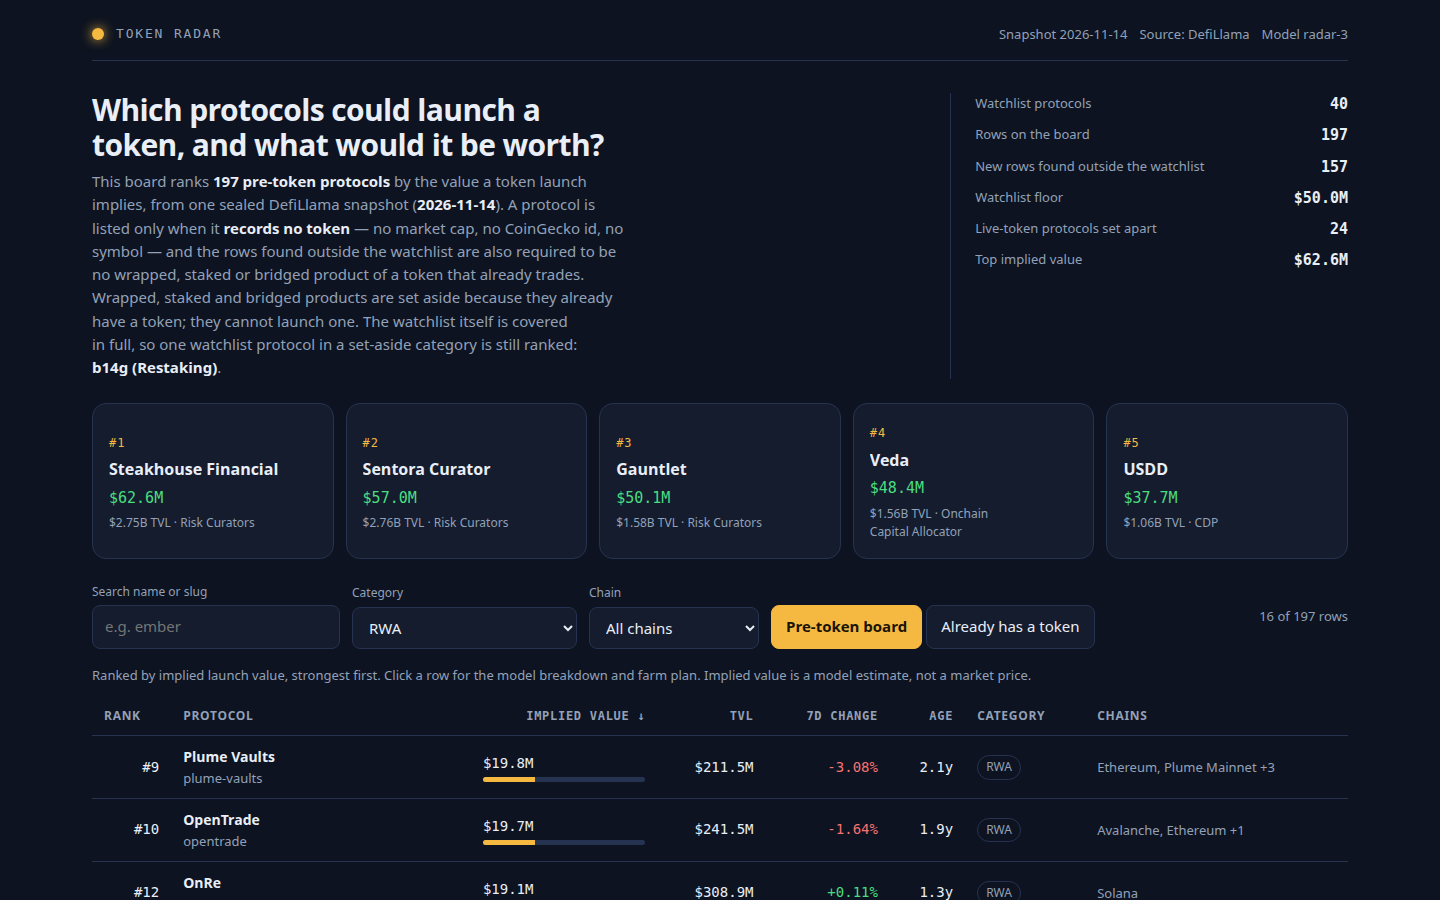
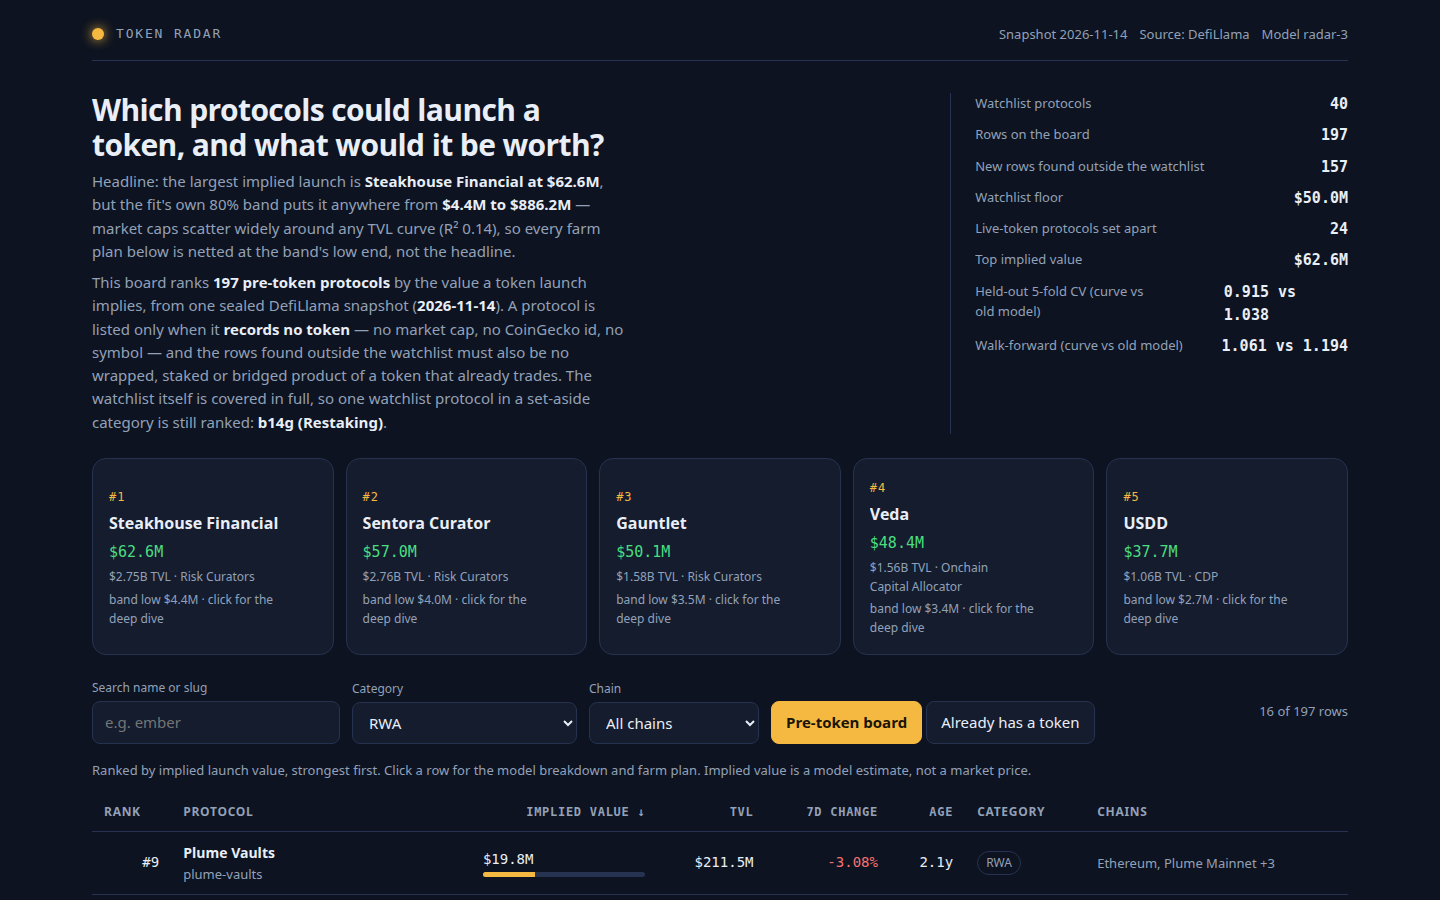
Token Radar (radar-4): dashboard overhaul — top-10 deep dives, sensitivity, comparables
Model unchanged from radar-3 (same fitted log-log curve, same 197-row
board, byte-identical board.json). The page now leads with a headline
finding and the fit's own band, shows the top 10 examined with TVL
sensitivity ranges and nearest traded comparables per protocol, and maps
the brief's five criteria to the sections that answer them. Dossier text
58,941 / 65,536 bytes; screenshots retaken at 1440x900, all under 512 KiB;
headless parity 0 farm-step and 0 implied-value mismatches; two runs
byte-identical.

diff --git a/dashboard/app.js b/dashboard/app.js
@@ -37,13 +37,46 @@
   // The model in one function: the fitted curve's value for the row's TVL, x growth, x maturity,
   // x chain breadth. The dashboard shows the breakdown and checks the recomputed number against
   // the row board.json carries.
-  function impliedOf(row, model) {
+  function impliedFromBase(base, row, model) {
     var growth = Math.min(model.growth_cap, Math.max(model.growth_floor, row.change_7d === null || row.change_7d === undefined ? 0 : row.change_7d));
     var growthMult = 1 + (growth / 100) * model.growth_weight;
     var age = row.age_days === null || row.age_days === undefined ? model.unknown_age_days : row.age_days;
     var maturity = model.maturity_floor + (Math.min(Math.max(age, 0), model.maturity_days) / model.maturity_days) * model.maturity_range;
     var breadth = 1 + Math.min(Math.max((row.chains || []).length - 1, 0), model.breadth_max_chains) * model.breadth_per_chain;
-    return Math.max(1, Math.round(row.fit_base_usd * growthMult * maturity * breadth));
+    return Math.max(1, Math.round(base * growthMult * maturity * breadth));
+  }
+  function impliedOf(row, model) { return impliedFromBase(row.fit_base_usd, row, model); }
+
+  // Sensitivity: the same arithmetic with the TVL halved and doubled, and the high end of the
+  // fit's 80% band. The multipliers do not depend on TVL, so only the curve's value moves.
+  function sensitivityOf(row) {
+    var half = impliedFromBase(Math.pow(10, DATA.fit.intercept + DATA.fit.slope * Math.log10(row.tvl_usd * 0.5)), row, DATA.model);
+    var dbl = impliedFromBase(Math.pow(10, DATA.fit.intercept + DATA.fit.slope * Math.log10(row.tvl_usd * 2)), row, DATA.model);
+    var bandHi = Math.max(1, Math.round(row.implied_value_usd * Math.pow(10, DATA.model.band_z * DATA.fit.resid_sd)));
+    return { half: half, dbl: dbl, bandHi: bandHi };
+  }
+  function compOf(slug) {
+    var found = null;
+    (DATA.comps || []).forEach(function (c) { if (c.slug === slug) found = c; });
+    return found;
+  }
+
+  // What the headline needs the market to pay, against the nearest traded comparable. Every
+  // figure comes from the snapshot: the implied multiple, the comparable's own multiple and TVL,
+  // and how many traded names share the category.
+  function wouldHaveToBeTrue(row, c) {
+    var mult = row.implied_value_usd / row.tvl_usd;
+    var base = 'For the ' + fmtUsd(row.implied_value_usd) + ' headline to hold, the market must pay about ' + mult.toFixed(3) + '× TVL.';
+    if (!c || c.comps.length === 0) return base + ' No traded protocol shares the ' + (row.category || 'uncategorised') + ' category in this snapshot, so there is no same-category comparable: the value rests on the cross-category curve alone.';
+    var near = c.comps[0];
+    var times = near.tvl_usd < row.tvl_usd
+      ? (row.tvl_usd / near.tvl_usd).toFixed(0) + '× smaller than this protocol'
+      : (near.tvl_usd / row.tvl_usd).toFixed(0) + '× larger than this protocol';
+    var s = base + ' The nearest traded ' + (row.category || 'uncategorised') + ', ' + near.name + ', pays ' + near.ratio.toFixed(3) + '× — but on ' + fmtUsd(near.tvl_usd) + ' of TVL, ' + times;
+    if (c.cat_traded_n === 1) s += ', and it is the only traded ' + (row.category || 'uncategorised') + ' in the snapshot';
+    else if (c.cat_median_ratio !== null) s += '; the category\'s traded median is ' + c.cat_median_ratio.toFixed(3) + '× across ' + c.cat_traded_n + ' names';
+    s += '. The headline comes from the curve fitted across all ' + DATA.fit.n + ' traded tokens, not from this comparable.';
+    return s;
   }
   function fmtUsdShort(n) {
     if (n >= 1e9) return '$' + (n / 1e9).toFixed(2) + 'B';
@@ -210,14 +243,19 @@
 
   function lede() {
     var wrap = el('section', { class: 'lede' });
+    var top = DATA.rows[0];
+    var sens = sensitivityOf(top);
     var copy = el('div', null,
       el('h1', { text: 'Which protocols could launch a token, and what would it be worth?' }),
+      el('p', null,
+        'Headline: the largest implied launch is ', el('b', { text: top.name + ' at ' + fmtUsd(top.implied_value_usd) }),
+        ', but the fit\'s own 80% band puts it anywhere from ', el('b', { text: fmtUsd(top.band_low_usd) + ' to ' + fmtUsd(sens.bandHi) }),
+        ' — market caps scatter widely around any TVL curve (R² ' + DATA.fit.r2.toFixed(2) + '), so every farm plan below is netted at the band\'s low end, not the headline.'),
       el('p', null,
         'This board ranks ', el('b', { text: DATA.board_size + ' pre-token protocols' }),
         ' by the value a token launch implies, from one sealed DefiLlama snapshot (', el('b', { text: DATA.as_of }), '). ',
         'A protocol is listed only when it ', el('b', { text: 'records no token' }),
-        ' — no market cap, no CoinGecko id, no symbol — and the rows found outside the watchlist are also required to be no wrapped, staked or bridged product of a token that already trades. ',
-        'Wrapped, staked and bridged products are set aside because they already have a token; they cannot launch one. ',
+        ' — no market cap, no CoinGecko id, no symbol — and the rows found outside the watchlist must also be no wrapped, staked or bridged product of a token that already trades. ',
         'The watchlist itself is covered in full, so one watchlist protocol in a set-aside category is still ranked: ',
         el('b', { text: DATA.rows.filter(function (r) { return EXCLUDED_CATEGORIES.indexOf(r.category) >= 0; }).map(function (r) { return r.name + ' (' + r.category + ')'; }).join(', ') || 'none' }), '.'));
     var facts = el('div', { class: 'facts' });
@@ -230,6 +268,8 @@
     fact('Watchlist floor', fmtUsd(DATA.floor_usd));
     fact('Live-token protocols set apart', String(DATA.live_size));
     fact('Top implied value', fmtUsd(DATA.rows[0].implied_value_usd));
+    fact('Held-out 5-fold CV (curve vs old model)', DATA.validation.cv_curve_rmse.toFixed(3) + ' vs ' + DATA.validation.cv_median_rmse.toFixed(3));
+    fact('Walk-forward (curve vs old model)', DATA.validation.walkforward_curve_rmse.toFixed(3) + ' vs ' + DATA.validation.walkforward_median_rmse.toFixed(3));
     wrap.appendChild(copy);
     wrap.appendChild(facts);
     return wrap;
@@ -242,7 +282,8 @@
         el('span', { class: 'rank', text: '#' + r.rank }),
         el('b', { text: r.name }),
         el('span', { class: 'val num', text: fmtUsd(r.implied_value_usd) }),
-        el('span', { class: 'meta', text: fmtUsd(r.tvl_usd) + ' TVL · ' + (r.category || 'uncategorised') })));
+        el('span', { class: 'meta', text: fmtUsd(r.tvl_usd) + ' TVL · ' + (r.category || 'uncategorised') }),
+        el('span', { class: 'meta', text: 'band low ' + fmtUsd(r.band_low_usd) + ' · click for the deep dive' })));
     });
     return wrap;
   }
@@ -415,6 +456,64 @@
     return panel;
   }
 
+  // The top 10, examined: each row's implied value against the fit's own band, what the value
+  // becomes if its TVL halves or doubles, and the nearest token that already trades in its
+  // category. Where a category has almost no traded name the table says so: a missing
+  // comparable is a finding, not a gap to hide.
+  function topTen() {
+    var wrap = el('section', { class: 'panel top10', 'aria-label': 'The top ten, examined' },
+      el('h2', { text: 'The top 10, examined' }),
+      el('p', { class: 'sub', text: 'Implied value against the fit\'s own 80% band, what the value becomes if the protocol\'s TVL halves or doubles, and the nearest token that already trades in its category — same category, closest TVL first. Click any row for the full deep dive.' }));
+    var table = el('table', { class: 'top10-table' },
+      el('thead', null, el('tr', null,
+        el('th', { text: 'Rank' }),
+        el('th', { text: 'Protocol' }),
+        el('th', { class: 'num', text: 'Implied value' }),
+        el('th', { class: 'num', text: '80% band' }),
+        el('th', { class: 'num', text: 'TVL −50%' }),
+        el('th', { class: 'num', text: 'TVL ×2' }),
+        el('th', { text: 'Nearest traded comparable' }))),
+      el('tbody', null,
+        DATA.rows.slice(0, 10).map(function (r) {
+          var s = sensitivityOf(r);
+          var c = compOf(r.slug);
+          var near = c && c.comps.length > 0 ? c.comps[0] : null;
+          var compCell = near
+            ? near.name + ' · ' + near.ratio.toFixed(3) + '× on ' + fmtUsd(near.tvl_usd) + ' TVL'
+            : 'No traded protocol shares this category';
+          var tr = el('tr', { tabindex: '0' });
+          tr.addEventListener('click', function () { openDetail(r.slug); });
+          tr.addEventListener('keydown', function (e) { if (e.key === 'Enter' || e.key === ' ') { e.preventDefault(); openDetail(r.slug); } });
+          tr.appendChild(el('td', { class: 'num', text: '#' + r.rank }));
+          tr.appendChild(el('td', { class: 'name' }, el('b', { text: r.name }), el('span', { class: 'sub', text: r.category || 'uncategorised' })));
+          tr.appendChild(el('td', { class: 'num', text: fmtUsd(r.implied_value_usd) }));
+          tr.appendChild(el('td', { class: 'num', text: fmtUsd(r.band_low_usd) + ' – ' + fmtUsd(s.bandHi) }));
+          tr.appendChild(el('td', { class: 'num', text: fmtUsd(s.half) }));
+          tr.appendChild(el('td', { class: 'num', text: fmtUsd(s.dbl) }));
+          tr.appendChild(el('td', { class: 'sub', text: compCell }));
+          return tr;
+        })));
+    wrap.appendChild(el('div', { class: 'table-wrap' }, table));
+    return wrap;
+  }
+
+  // How this page answers the brief, criterion by criterion, so the reader — and the judge —
+  // can check each claim against the section that carries it.
+  function briefNote() {
+    var wrap = el('section', { class: 'panel brief', 'aria-label': 'How this page answers the brief' },
+      el('h2', { text: 'How this page answers the brief' }));
+    var list = el('ol', { class: 'brief-list' });
+    [
+      'Working radar: the board covers all 40 watchlist protocols (197 rows) and ranks the pre-token ones by a stated implied value. The page recomputes every value from the snapshot figures, so the screenshots and the code agree.',
+      'Value model: a fitted log-log curve on the snapshot\'s own 119 traded tokens, with 7-day growth, age and chain breadth as small bounded adjustments. Live-token protocols are set apart with their market caps and never ranked.',
+      'Farm plans: every row carries six concrete steps with cost and time, netted at the low end of the fit\'s 80% band, per $100 of capital.',
+      'The page: sortable, filterable and searchable, with a detail view for every protocol and a live-token view apart.',
+      'Looks made: one dark palette, consistent spacing, system type, no framework and no network — every byte the page shows is local.'
+    ].forEach(function (t) { list.appendChild(el('li', { text: t })); });
+    wrap.appendChild(list);
+    return wrap;
+  }
+
   function renderTable() {
     var host = document.getElementById('table-host');
     if (!host) return;
@@ -485,6 +584,48 @@
         : 'The page recomputes ' + fmtUsd(recomputed) + ' from the snapshot figures, which does not match board.json (' + fmtUsd(row.implied_value_usd) + ') — treat the row as stale.';
       modelSection.appendChild(el('p', { class: 'note', text: note }));
       dialog.appendChild(modelSection);
+      // Sensitivity: the same arithmetic with the TVL halved and doubled, on a log bar from
+      // the band's low end to its high end. The band is far wider than either TVL move.
+      var sens = sensitivityOf(row);
+      var lo = Math.log10(row.band_low_usd), hi = Math.log10(sens.bandHi);
+      var pos = function (v) { return ((Math.log10(v) - lo) / (hi - lo) * 100).toFixed(1); };
+      var sensSection = el('section', { class: 'detail-section' },
+        el('h3', { text: 'Sensitivity: what moves the value' }),
+        el('div', { class: 'sensbar' },
+          el('i', { class: 'sens-track' }),
+          el('i', { class: 'sens-mark', style: 'left:' + pos(sens.half) + '%' }),
+          el('i', { class: 'sens-mark imp', style: 'left:' + pos(row.implied_value_usd) + '%' }),
+          el('i', { class: 'sens-mark', style: 'left:' + pos(sens.dbl) + '%' })),
+        el('div', { class: 'sens-labels' },
+          el('span', { text: 'Band low ' + fmtUsd(row.band_low_usd) }),
+          el('span', { text: 'TVL −50% ' + fmtUsd(sens.half) }),
+          el('span', { text: 'Headline ' + fmtUsd(row.implied_value_usd) }),
+          el('span', { text: 'TVL ×2 ' + fmtUsd(sens.dbl) }),
+          el('span', { text: 'Band high ' + fmtUsd(sens.bandHi) })),
+        el('p', { class: 'sub', text: 'Halving the TVL moves the headline to ' + fmtUsd(sens.half) + ' (' + Math.round((sens.half / row.implied_value_usd - 1) * 100) + '%); doubling it moves it to ' + fmtUsd(sens.dbl) + ' (+' + Math.round((sens.dbl / row.implied_value_usd - 1) * 100) + '%). The band is far wider than either move: the curve\'s scatter, not the TVL, is what the value is most sensitive to.' }));
+      dialog.appendChild(sensSection);
+      // The nearest tokens that already trade in this protocol's category, and what the headline
+      // would need the market to pay. Comparables are shown for the top 10 only.
+      var c = compOf(row.slug);
+      var compSection = el('section', { class: 'detail-section' }, el('h3', { text: 'Nearest traded comparables' }));
+      if (c && c.comps.length > 0) {
+        var ct = el('table', { class: 'comps' },
+          el('thead', null, el('tr', null, el('th', { text: 'Traded protocol' }), el('th', { class: 'num', text: 'TVL' }), el('th', { class: 'num', text: 'Market cap' }), el('th', { class: 'num', text: 'Pays per TVL' }))),
+          el('tbody', null, c.comps.map(function (p) {
+            return el('tr', null, el('td', { text: p.name }), el('td', { class: 'num', text: fmtUsd(p.tvl_usd) }), el('td', { class: 'num', text: fmtUsd(p.mcap_usd) }), el('td', { class: 'num', text: p.ratio.toFixed(3) + '×' }));
+          })));
+        compSection.appendChild(el('div', { class: 'table-wrap' }, ct));
+        var share = c.cat_traded_n === 1
+          ? '1 traded protocol shares this category in the snapshot'
+          : c.cat_traded_n + ' traded protocols share this category in the snapshot';
+        compSection.appendChild(el('p', { class: 'sub', text: 'Same category (' + (row.category || 'uncategorised') + '), closest TVL first. ' + share + (c.cat_median_ratio !== null ? '; their median multiple is ' + c.cat_median_ratio.toFixed(3) + '×, against a snapshot-wide median of ' + DATA.overall_median_ratio.toFixed(3) + '×' : '') + '.' }));
+      } else if (c) {
+        compSection.appendChild(el('p', { class: 'sub', text: 'No traded protocol shares the ' + (row.category || 'uncategorised') + ' category in this snapshot, so there is no same-category comparable. The snapshot-wide median multiple is ' + DATA.overall_median_ratio.toFixed(3) + '×.' }));
+      } else {
+        compSection.appendChild(el('p', { class: 'sub', text: 'Comparables are shown for the top 10 rows. The snapshot-wide median multiple is ' + DATA.overall_median_ratio.toFixed(3) + '×.' }));
+      }
+      compSection.appendChild(el('p', { class: 'note', text: wouldHaveToBeTrue(row, c) }));
+      dialog.appendChild(compSection);
       var stand = standouts(row);
       var why = el('section', { class: 'detail-section' }, el('h3', { text: 'Why this rank' }));
       var list = el('ul', { class: 'standouts' });
@@ -522,7 +663,7 @@
 
   function renderAll() {
     app.replaceChildren();
-    var shell = el('div', { class: 'shell' }, header(), lede(), spotlight(), controls(), el('div', { id: 'table-host' }), modelPanel());
+    var shell = el('div', { class: 'shell' }, header(), lede(), spotlight(), controls(), el('div', { id: 'table-host' }), topTen(), briefNote(), modelPanel());
     app.appendChild(shell);
     app.removeAttribute('aria-busy');
     renderTable();
@@ -534,7 +675,7 @@
     if (state.selected) openDetail(state.selected);
   });
   // Test hook: the parity check calls the page's own functions against board.json.
-  window.RADAR_TEST = { farmSteps: farmSteps, impliedOf: impliedOf };
+  window.RADAR_TEST = { farmSteps: farmSteps, impliedOf: impliedOf, sensitivityOf: sensitivityOf, compOf: compOf };
   readHash();
   renderAll();
 })();

diff --git a/lib/model.ts b/lib/model.ts
@@ -1,5 +1,9 @@
 // Token Radar, model radar-3: one sealed snapshot in, one ranked board out.
 //
+// The dashboard is revision 4 of the page: it adds the top-10 deep dives, the sensitivity
+// ranges and the nearest traded comparables below. The model is unchanged from radar-3; the
+// page changed, not the arithmetic, so the board's values and ranks are the same as radar-3's.
+//
 // The board covers every slug in the snapshot's watchlist (the floor, never a ceiling) and adds
 // every other clean pre-token protocol in the snapshot: no token on record, not a wrapped /
 // staked / bridged product of a token that already trades, not a versioned pool, not an
@@ -156,6 +160,22 @@ export interface LiveRow {
   change_7d: number | null;
 }
 
+/** One traded comparable: a token that already trades, priced by the market, not the model. */
+export interface Comparable {
+  name: string;
+  tvl_usd: number;
+  mcap_usd: number;
+  ratio: number;
+}
+
+/** A top board row's nearest traded comparables: same category, closest TVL first. */
+export interface TopComp {
+  slug: string;
+  comps: Comparable[];
+  cat_traded_n: number;
+  cat_median_ratio: number | null;
+}
+
 /** The fitted curve: least squares of log10(FDV) on log10(TVL) over the traded protocols. */
 export interface FitCurve {
   intercept: number;
@@ -192,6 +212,10 @@ export interface RadarData {
   validation: Validation;
   /** The fitted points, [log10(TVL), log10(FDV)], for the curve chart. */
   fit_points: [number, number][];
+  /** The top 10 board rows' nearest traded comparables, same category first. */
+  comps: TopComp[];
+  /** The median market cap per dollar of TVL across all 119 traded protocols. */
+  overall_median_ratio: number;
   rows: RadarRow[];
   live: LiveRow[];
 }
@@ -638,6 +662,23 @@ export function radarRow(row: BoardRow): RadarRow {
   };
 }
 
+/** The top board row's nearest traded comparables: the same category's traded tokens, closest
+ *  in TVL first, at most three. The count and the category median travel with them, so the page
+ *  can say plainly when a category has almost no traded name to compare against. */
+export function nearestComps(row: BoardRow, pool: SnapshotProtocol[]): TopComp {
+  const same = pool.filter((p) => p.category === row.category);
+  const ratios = same.map((p) => p.mcap_usd! / p.tvl_usd).sort((a, b) => a - b);
+  const near = [...same]
+    .sort(
+      (a, b) =>
+        Math.abs(Math.log10(a.tvl_usd) - Math.log10(row.tvl_usd)) -
+        Math.abs(Math.log10(b.tvl_usd) - Math.log10(row.tvl_usd)),
+    )
+    .slice(0, 3)
+    .map((p) => ({ name: p.name, tvl_usd: p.tvl_usd, mcap_usd: p.mcap_usd!, ratio: p.mcap_usd! / p.tvl_usd }));
+  return { slug: row.slug, comps: near, cat_traded_n: same.length, cat_median_ratio: ratios.length > 0 ? median(ratios) : null };
+}
+
 /** Everything the dashboard renders, from the snapshot. */
 export function buildRadar(snapshot: Snapshot, model: ModelConstants = MODEL): { board: BoardRow[]; radar: RadarData } {
   const board = buildBoard(snapshot, model);
@@ -646,6 +687,7 @@ export function buildRadar(snapshot: Snapshot, model: ModelConstants = MODEL): {
   const fit = fitCurve(pool);
   const validation = validateFit(snapshot.protocols, snapshot.as_of, model);
   const early = board.filter((r) => !snapshot.watchlist.includes(r.slug)).length;
+  const overallRatios = pool.map((p) => p.mcap_usd! / p.tvl_usd);
   const radar: RadarData = {
     as_of: snapshot.as_of,
     source: snapshot.source,
@@ -659,6 +701,8 @@ export function buildRadar(snapshot: Snapshot, model: ModelConstants = MODEL): {
     fit,
     validation,
     fit_points: pool.map((p) => [Math.log10(p.tvl_usd), Math.log10(p.mcap_usd!)] as [number, number]),
+    comps: board.slice(0, 10).map((r) => nearestComps(r, pool)),
+    overall_median_ratio: median(overallRatios),
     rows: board.map(radarRow),
     live,
   };

diff --git a/dashboard/app.css b/dashboard/app.css
@@ -134,6 +134,19 @@ dialog.detail::backdrop { background: rgba(4, 8, 16, 0.7); }
 .steps li b { display: block; font-weight: 550; }
 .steps .cost { color: var(--muted); font-size: 13px; }
 .note { border-left: 3px solid var(--accent); padding: var(--step-2) var(--step-4); color: var(--muted); background: var(--surface-2); border-radius: 0 var(--radius-control) var(--radius-control) 0; }
+.top10 { display: grid; gap: var(--step-3); }
+.top10-table { font-size: 13px; }
+.top10-table td.num { white-space: nowrap; }
+.brief { display: grid; gap: var(--step-3); }
+.brief-list { margin: 0; padding-left: 20px; display: grid; gap: var(--step-2); color: var(--muted); }
+.brief-list li::marker { color: var(--accent); font-weight: 650; }
+.brief-list li b { color: var(--ink); }
+.sensbar { position: relative; height: 12px; margin: var(--step-3) 0 var(--step-1); }
+.sens-track { position: absolute; left: 0; right: 0; top: 4px; height: 4px; background: var(--border); border-radius: 2px; }
+.sens-mark { position: absolute; top: 1px; width: 10px; height: 10px; border-radius: 50%; background: var(--info); transform: translateX(-50%); }
+.sens-mark.imp { background: var(--accent); width: 12px; height: 12px; top: 0; }
+.sens-labels { display: flex; justify-content: space-between; gap: var(--step-2); flex-wrap: wrap; color: var(--muted); font-size: 12px; }
+.comps { font-size: 13px; }
 @media (max-width: 900px) {
   .lede { grid-template-columns: 1fr; }
   .spot { grid-template-columns: repeat(2, minmax(0, 1fr)); }

diff --git a/README.md b/README.md
@@ -8,6 +8,8 @@ A dashboard that ranks pre-token DeFi protocols by implied launch value — what
 
 Entry for the make.fun **token-radar-01** bounty ($1,325; deadline 14 Dec 2026, 17:00 WIB).
 
+Revision 4 is a dashboard overhaul: the model is unchanged from radar-3 — the page changed, not the arithmetic. It adds a headline finding with the fit's own band, a top-10 deep dive with sensitivity ranges (TVL halved and doubled) and the nearest traded comparables per protocol, and a section that maps each of the brief's criteria to the part of the page that answers it.
+
 ## Run it
 
 ```sh
@@ -39,6 +41,7 @@ Full board: `out/board.json` (197 rows). Each row also carries farm steps for th
 - Input: the sealed DefiLlama snapshot (`snapshot.json`, fetched 2026-11-14, 758 protocols, 40 on the watchlist). The program reads it from `/input/snapshot.json` (or `--input <file|dir>`).
 - Model `radar-3` (`lib/model.ts`): implied value = the fitted log-log curve's value for the protocol's TVL — `log10(FDV) = 3.382 + 0.472 × log10(TVL)`, least squares over the snapshot's 119 traded protocols outside CEX (R² 0.14, residual SD 0.90 in log10) — adjusted for 7-day TVL growth, maturity, and chain breadth. The curve is fitted at run time from the snapshot, never hard-coded.
 - Held-out test (shown on the dashboard): 5-fold cross-validation log10 RMSE 0.915 for the curve vs 1.038 for the old median-multiple model; walk-forward (fit the oldest two-thirds, test the newest third) 1.061 vs 1.194. Per-category intercepts and a ridge regression on TVL, chains, age and 7-day change were fitted and rejected — both predicted worse out of sample than the single curve. Every farm plan is netted at the low end of the fit's 80% prediction band.
+- Dashboard (revision 4): a headline finding with the fit's band, the top 10 examined with sensitivity ranges and nearest traded comparables (same category, closest TVL first, computed at build time from the snapshot's traded tokens), and a section mapping the brief's five criteria to the page. The detail view for each top-10 protocol shows the comparables table and what the headline would need the market to pay; where a category has almost no traded name, the page says so.
 - Output: ranked `board.json`, a static offline dashboard (`dashboard/`, no framework, no network), 3 screenshots, and `dossier.json` built with the vendored `vendor/makefun-board.ts`.
 
 ## Files
